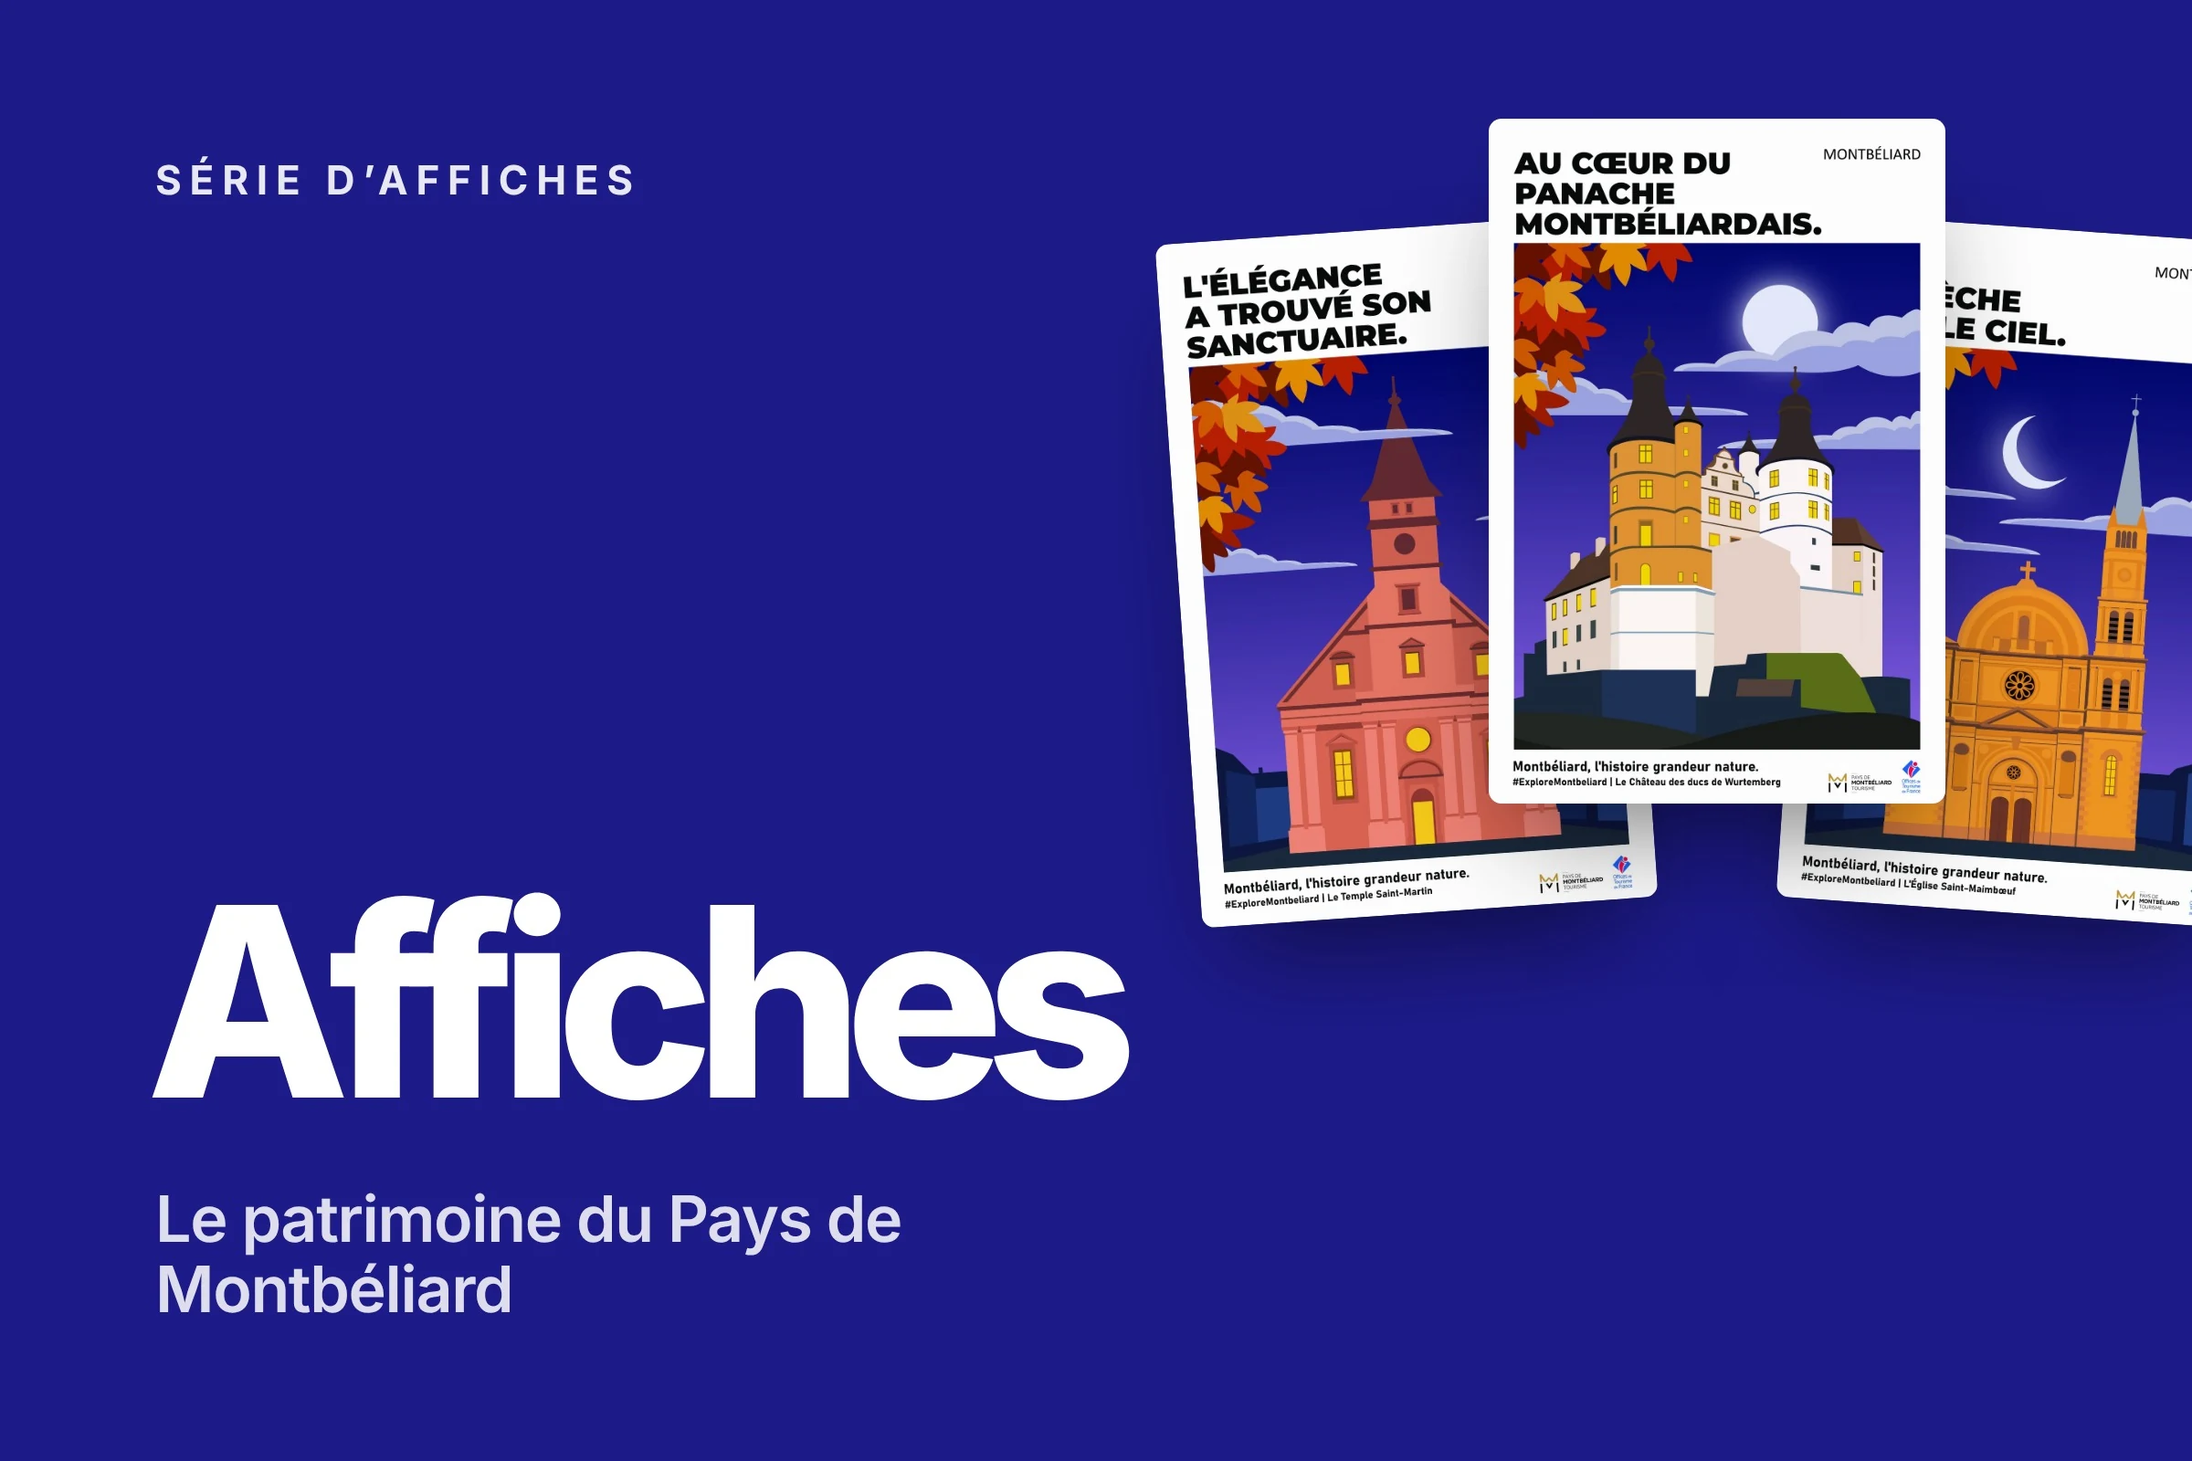
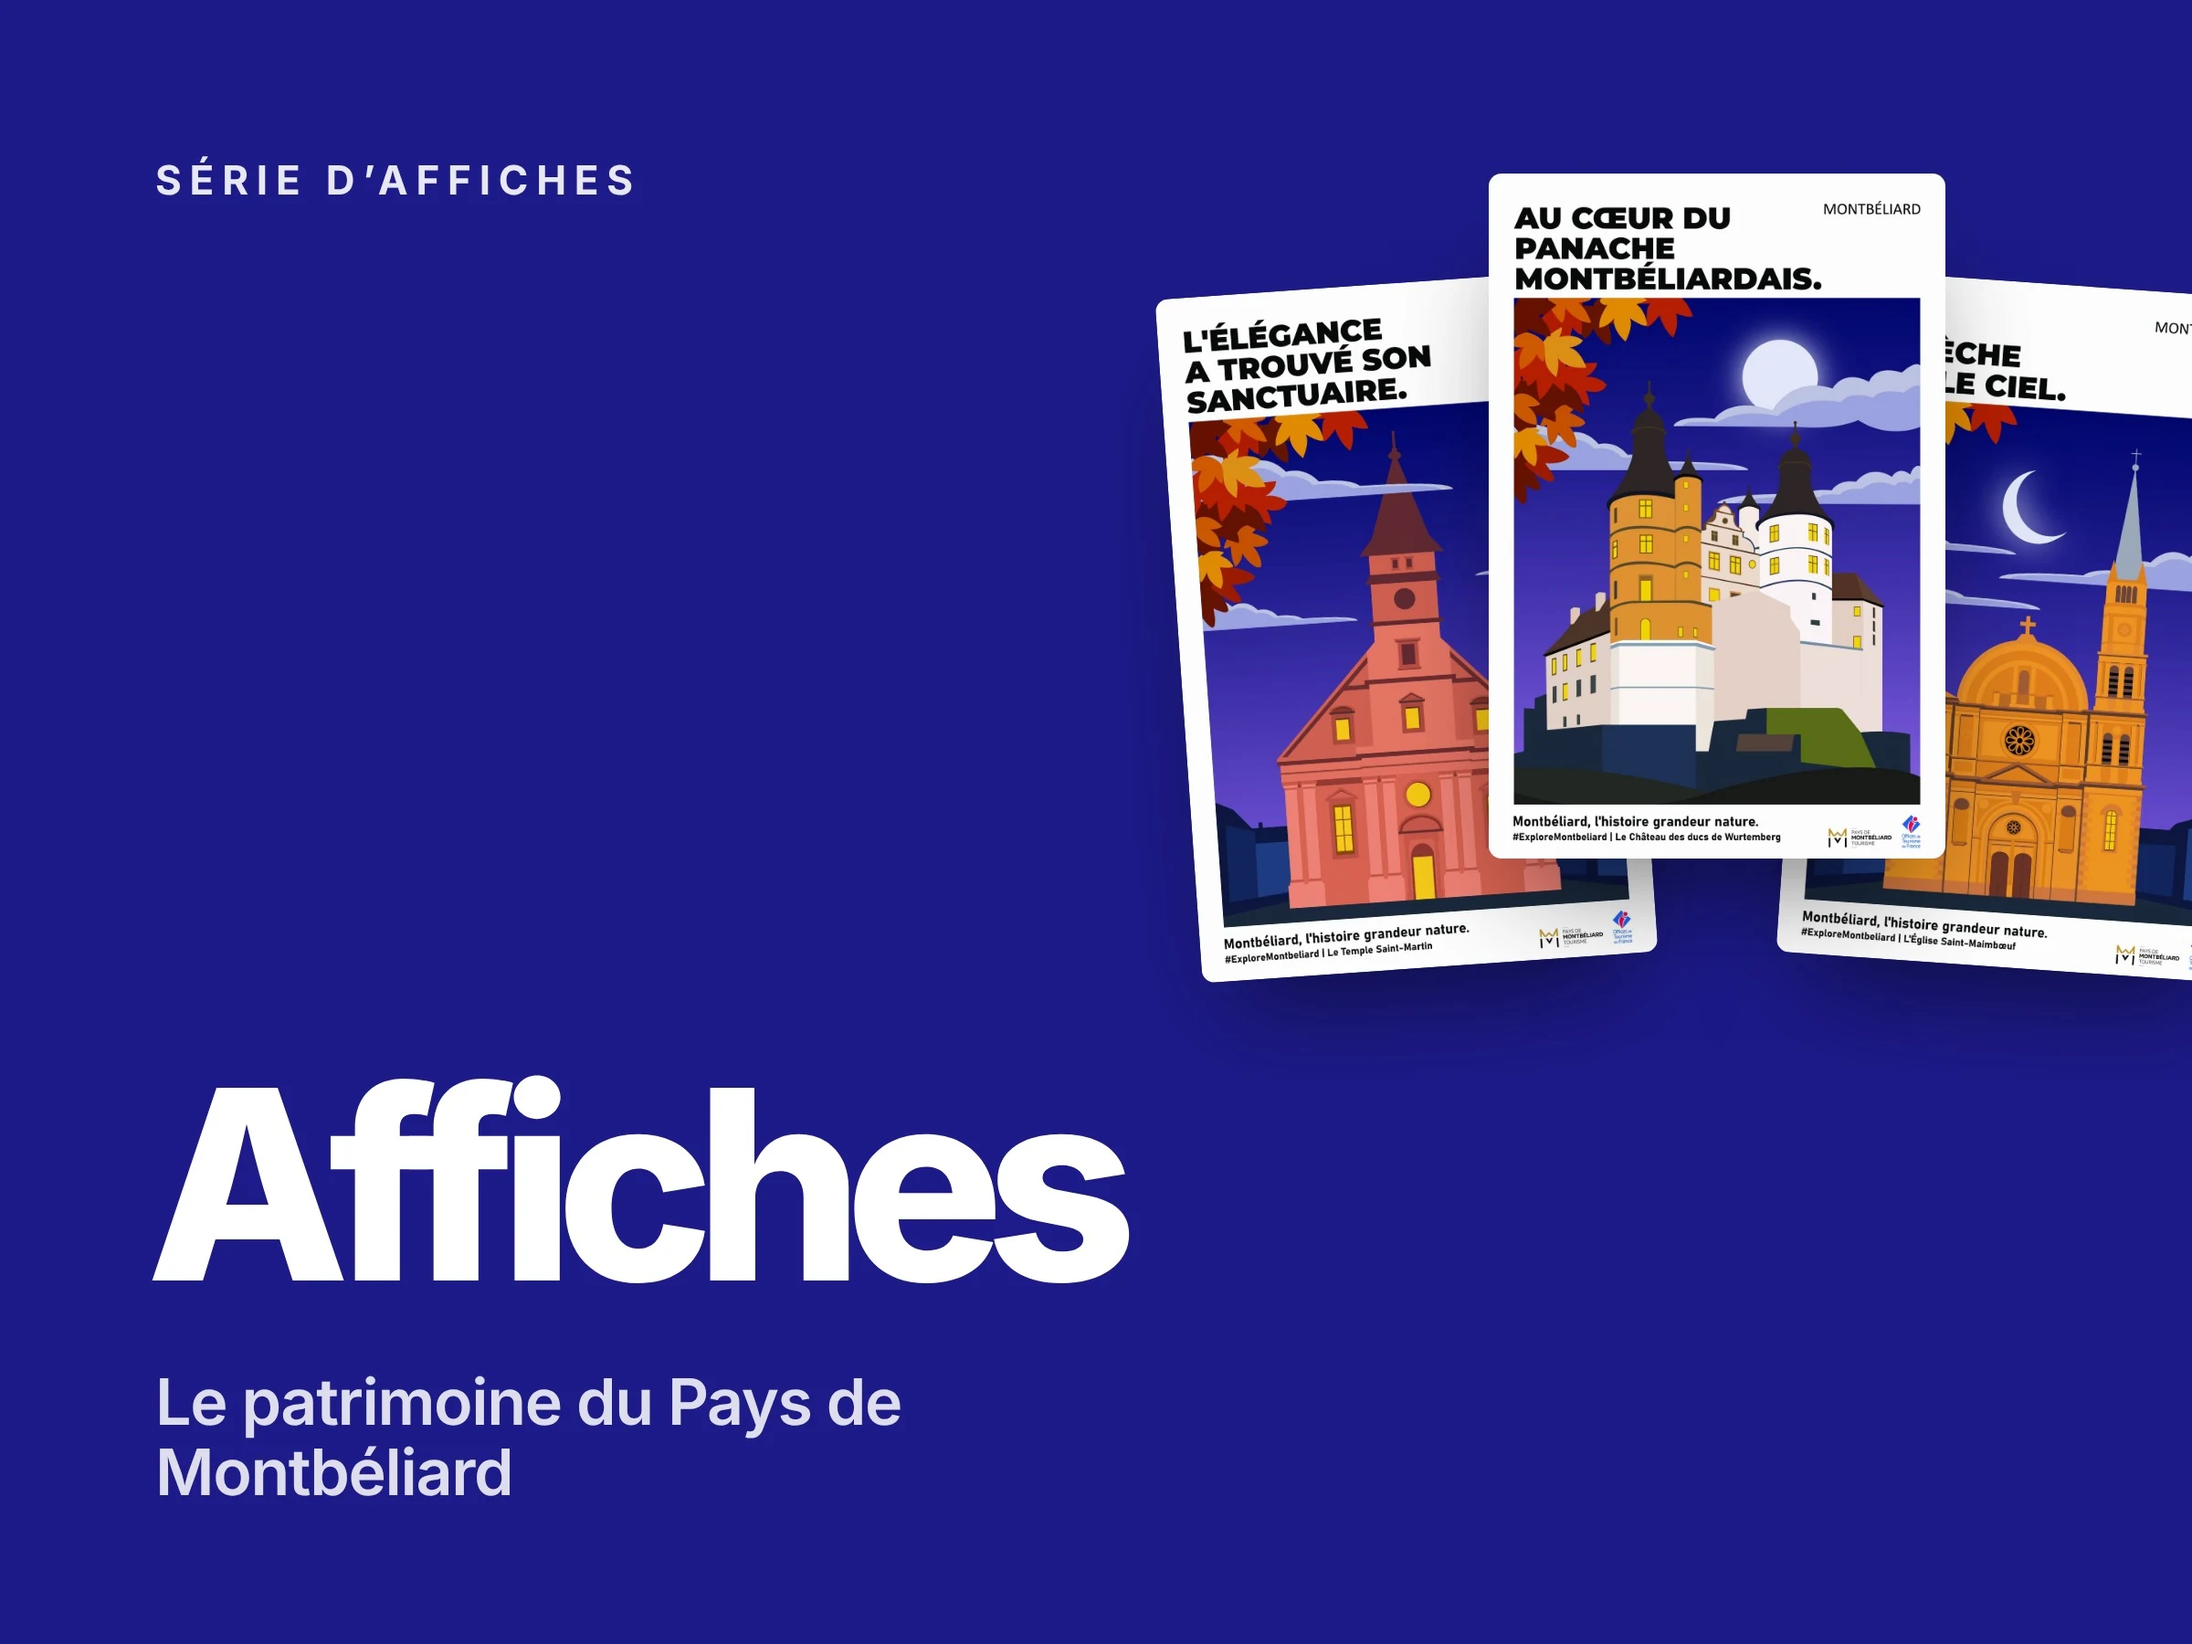
Covers en 4/3 pour ne plus être rognées

diff --git a/JOURNAL.md b/JOURNAL.md
@@ -182,3 +182,4 @@ Je n'ai pas choisi Instagram ni Behance, car je n'y publie pas assez de contenu 
 - 2026-11-16 : Compétences, rangée de logos retirée ; logiciels listés dans chaque rubrique.
 - 2026-11-16 : nouvelles covers (Olyvia, Iris, Affiches, Art contemporain) : fond de couleur, titre et visuel.
 - 2026-11-16 : nouvelles covers TiK•TaK et ThermoViz, même style (fond de couleur, titre, visuels du site).
+- 2026-11-16 : covers refaites en 4/3 (plus de rognage sur les pages projet), TiK•TaK en couverture-carte.webp.
